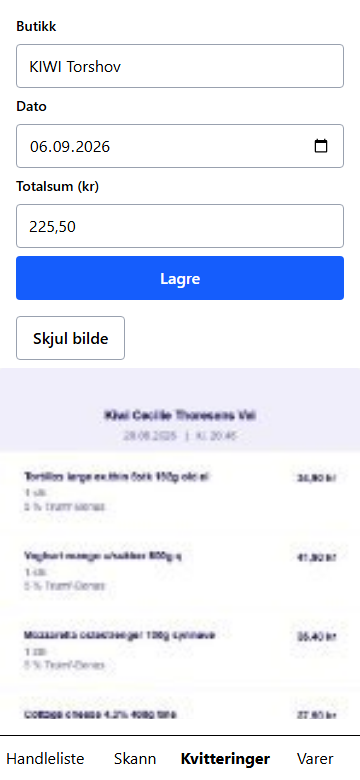
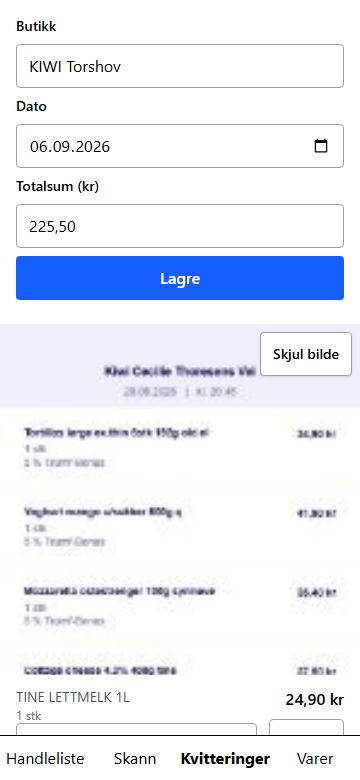
fix: keep "Skjul bilde" reachable inside the sticky panel (T35 review F1)
The hide control used to sit above the sticky image panel, so once the
panel was pinned and the user had scrolled into the lines, it scrolled
away with the header and hiding the image meant scrolling back up.

"Skjul bilde" now overlays the panel itself, top-right, inside the
same sticky, fixed-height block; the image gets its own inner
overflow-auto scroller so the button stays put even while the image
scrolls inside the panel. "Vis bilde" is unchanged when the panel is
hidden.

Extended the toggle test to assert the hide control is nested inside
the sticky block, and retook the "shown" and "scrolled" screenshots.

Claude-Session: https://claude.ai/code/session_01LbcodsQxsNDR6cS1v9zKWj

diff --git a/src/client/pages/ReceiptPage.tsx b/src/client/pages/ReceiptPage.tsx
@@ -180,6 +180,12 @@ function writeImagePanelPreference(visible: boolean): void {
 /**
  * Phone-only toggle, directly under the header's warning chips (T35). The desktop two-column
  * layout shows the image unconditionally instead, so this whole block is `md:hidden`.
+ *
+ * `Skjul bilde` lives inside the sticky panel itself (overlaid top-right), not beside `Vis
+ * bilde`: once the panel is pinned and the user has scrolled into the lines, a hide control left
+ * behind at the top would have scrolled out of reach with the header (T35 review F1). The panel
+ * is a fixed-height outer box (sticky, `overflow-hidden`) with its own inner `overflow-auto`
+ * scroller for the image, so the button stays put even while the image scrolls inside it.
  */
 function ReceiptImageToggle({ imageUrl }: { imageUrl: string }) {
   const [visible, setVisible] = useState(readImagePanelPreference);
@@ -190,20 +196,32 @@ function ReceiptImageToggle({ imageUrl }: { imageUrl: string }) {
     writeImagePanelPreference(next);
   }
 
+  if (!visible) {
+    return (
+      <div className="md:hidden">
+        <button
+          type="button"
+          onClick={toggle}
+          className="mx-4 min-h-11 rounded border border-gray-400 px-4 py-2 font-medium"
+        >
+          Vis bilde
+        </button>
+      </div>
+    );
+  }
+
   return (
-    <div className="md:hidden">
+    <div className="sticky top-0 z-10 mt-2 h-[45vh] overflow-hidden bg-gray-100 md:hidden">
+      <div className="h-full overflow-auto">
+        <ReceiptImageLink imageUrl={imageUrl} />
+      </div>
       <button
         type="button"
         onClick={toggle}
-        className="mx-4 min-h-11 rounded border border-gray-400 px-4 py-2 font-medium"
+        className="absolute right-2 top-2 min-h-11 min-w-11 rounded border border-gray-400 bg-white px-3 py-2 text-sm font-medium shadow"
       >
-        {visible ? 'Skjul bilde' : 'Vis bilde'}
+        Skjul bilde
       </button>
-      {visible && (
-        <div className="sticky top-0 z-10 mt-2 h-[45vh] overflow-auto bg-gray-100">
-          <ReceiptImageLink imageUrl={imageUrl} />
-        </div>
-      )}
     </div>
   );
 }

diff --git a/test/client/ReceiptPageDone.test.tsx b/test/client/ReceiptPageDone.test.tsx
@@ -350,9 +350,16 @@ describe('ReceiptPage — done state', () => {
     expect(screen.getAllByRole('img', { name: 'Kvitteringsbilde' })).toHaveLength(1);
 
     await user.click(screen.getByRole('button', { name: 'Vis bilde' }));
-    expect(screen.getAllByRole('img', { name: 'Kvitteringsbilde' })).toHaveLength(2);
+    const images = screen.getAllByRole('img', { name: 'Kvitteringsbilde' });
+    expect(images).toHaveLength(2);
 
-    await user.click(screen.getByRole('button', { name: 'Skjul bilde' }));
+    // "Skjul bilde" must live inside the same sticky block as the phone's image (T35 review F1),
+    // not back where "Vis bilde" was, or scrolling into the lines would leave it unreachable.
+    const phoneImage = images[1] ?? null;
+    const hideButton = screen.getByRole('button', { name: 'Skjul bilde' });
+    expect(hideButton.closest('.sticky')).toContainElement(phoneImage);
+
+    await user.click(hideButton);
     expect(screen.getAllByRole('img', { name: 'Kvitteringsbilde' })).toHaveLength(1);
   });
 

diff --git a/docs/reviews/T35-review.md b/docs/reviews/T35-review.md
@@ -1,0 +1,23 @@
+# Review: T35 — Kvitteringer
+
+Review of pull request #8, commits `dfedea5` (docs) and `aabac77` (implementation) on `task/T35-receipt-image-compare`, 2026-09-07.
+Verdict at first pass: one small required item (F1); the layout itself is right on both widths.
+
+## What was verified
+
+Desktop: a `md:` two-column layout, the image in a sticky left column with its own scroll, header, lines and actions on the right; the four screenshots show the panel pinned while the lines scroll on the phone and the two columns at 1280 px.
+Phone: `Vis bilde` / `Skjul bilde` under the header, a `sticky top-0 z-10 h-[45vh] overflow-auto` panel, preference in `sessionStorage` behind try/catch, default hidden; the image is a link to the full file in a new tab with `rel="noreferrer"` and `alt="Kvitteringsbilde"`.
+Tests cover the link, the toggle and the remembered preference across a remount.
+Architecture section 10 row and the tasks.md entry follow the plan; the plan file is unchanged.
+CI run on `aabac77` is green on both jobs.
+
+## Required before merge
+
+- F1. On the phone, once the panel is pinned and the user has scrolled into the lines, `Skjul bilde` has scrolled away with the header, so hiding the image means scrolling back to the top.
+  Keep the control reachable while the panel is shown: put `Skjul bilde` inside the sticky block (a small 44 px button overlaid top-right on the panel is enough), so the sticky area is the panel plus its own close control; `Vis bilde` stays where it is when the panel is hidden.
+  Extend the toggle test so the hide control is found while the panel is shown; retake the two "shown" and "scrolled" screenshots.
+
+## Noted, no action
+
+- The desktop column's `<img>` is `hidden` below `md`, and browsers still fetch a hidden image, so a phone downloads the receipt image once per done receipt even with the panel hidden; the image route's one-day `Cache-Control` keeps it to one fetch, and the toggle then shows it from cache.
+  Not worth a `matchMedia` hook.
